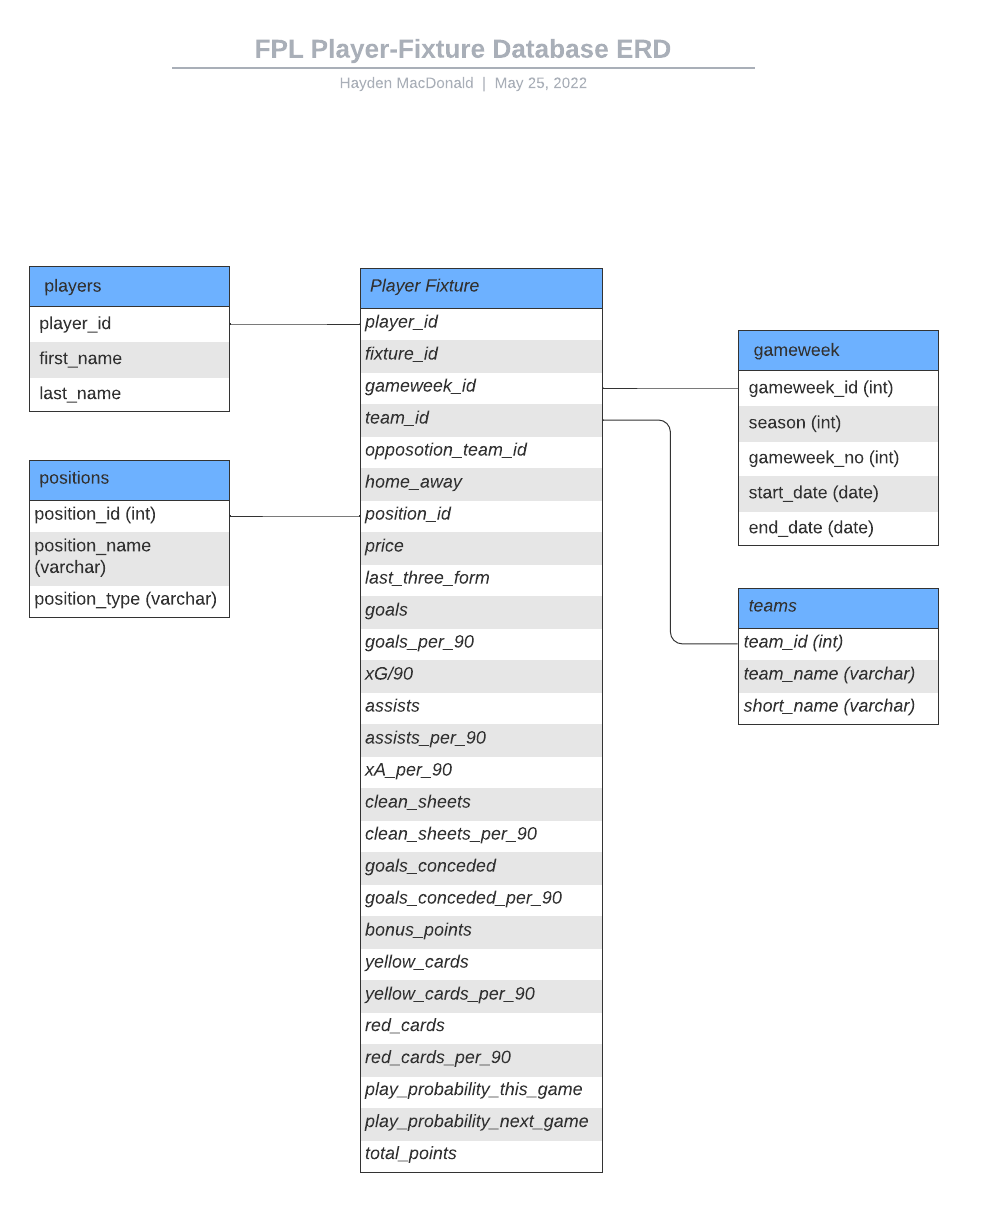
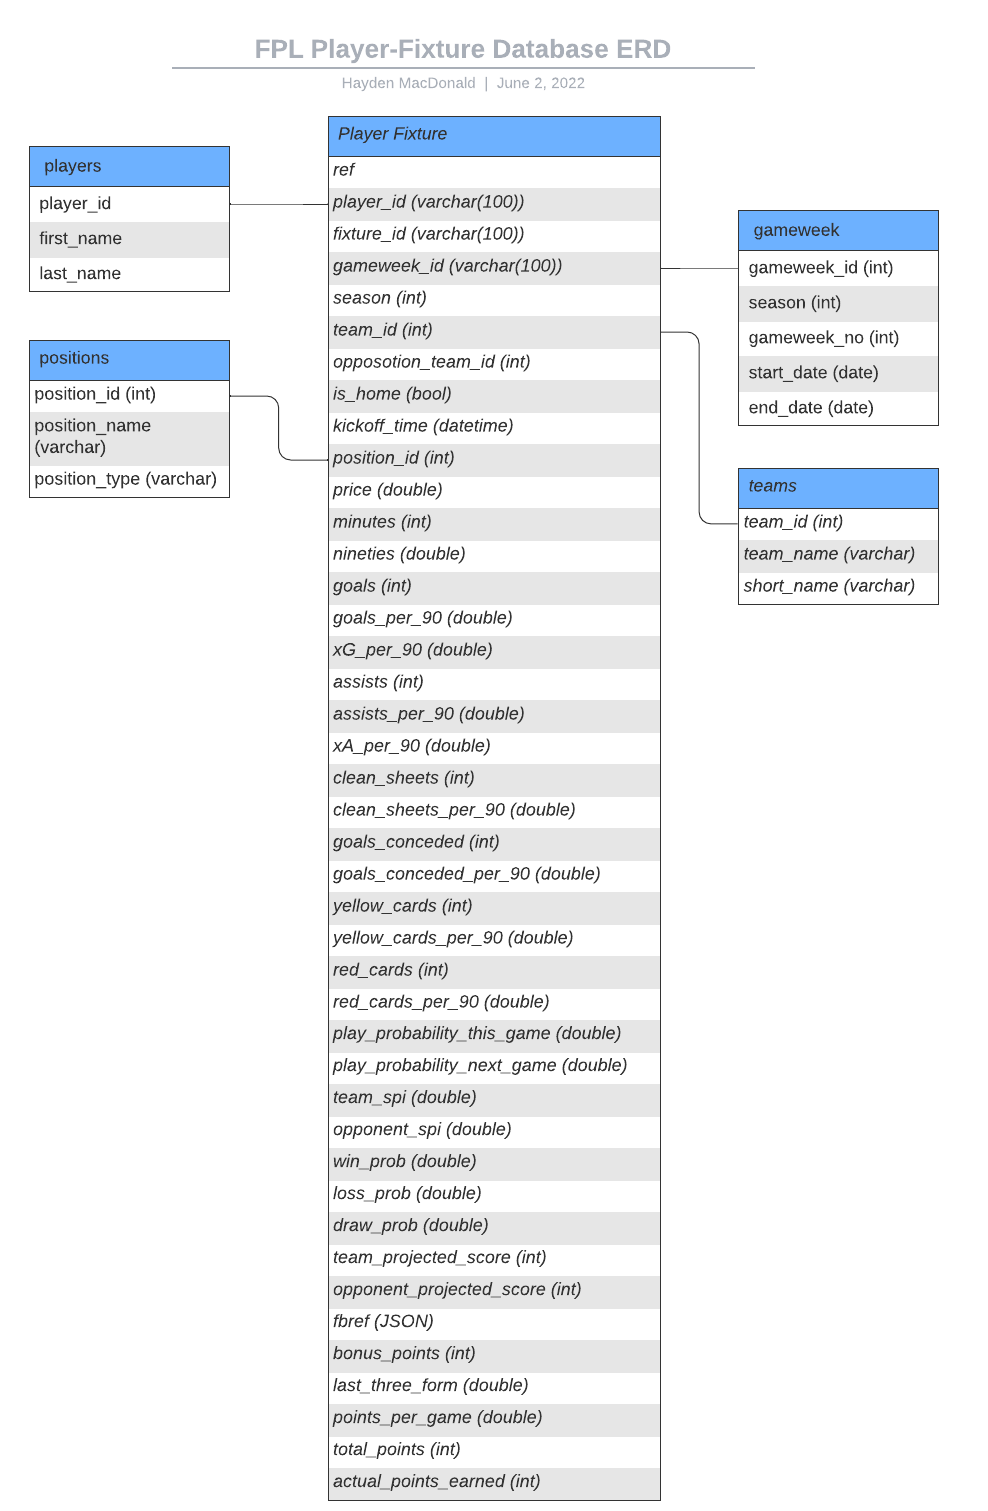
fix: testing connections to planetscale

diff --git a/sql/sql_queries.py b/sql/sql_queries.py
@@ -10,7 +10,7 @@ gameweeks_table_drop = "DROP TABLE IF EXISTS gameweeks;"
 
 player_fixtures_table_create = ("""
 CREATE TABLE IF NOT EXISTS player_fixtures (
-    ref PRIMARY KEY NOT NULL AUTO_INCREMENT,
+    ref INT NOT NULL AUTO_INCREMENT PRIMARY KEY,
     player_id VARCHAR(100),
     fixture_id VARCHAR(100),
     gameweek_id VARCHAR(100),
@@ -21,9 +21,8 @@ CREATE TABLE IF NOT EXISTS player_fixtures (
     kickoff_time datetime,
     position_id INT,
     price DOUBLE(4,2),
-    last_three_form DOUBLE(4,2),
     minutes INT,
-    nineties DOUBLE(4,2)
+    nineties DOUBLE(4,2),
     goals INT,
     goals_per_90 DOUBLE(4,2),
     xG_per_90 DOUBLE(4,2),
@@ -40,9 +39,6 @@ CREATE TABLE IF NOT EXISTS player_fixtures (
     red_cards_p90 DOUBLE(4,2),
     play_probability_next_game DOUBLE(4,2),
     play_probability_this_game DOUBLE(4,2),
-    bonus_points INT,
-    points_per_game DOUBLE(4,2),
-    total_points BIGINT,
     team_spi DOUBLE(4,2),
     opponent_spi DOUBLE(4,2),
     win_prob DOUBLE(4,4),
@@ -51,13 +47,17 @@ CREATE TABLE IF NOT EXISTS player_fixtures (
     team_projected_score DOUBLE(4,2),
     opponent_projected_score DOUBLE(4,2),
     fbref JSON,
+    bonus_points INT,
+    last_three_form DOUBLE(4,2),
+    points_per_game DOUBLE(4,2),
+    total_points INT,
     actual_points_earned INT
 );
 """)
 
 players_table_create = ("""
 CREATE TABLE IF NOT EXISTS players (
-    player_id VARCHAR(100) PRIMARY KEY NOT NULL,
+    player_id VARCHAR(100) NOT NULL PRIMARY KEY,
     first_name VARCHAR(150), 
     last_name VARCHAR(150)
 );
@@ -65,7 +65,7 @@ CREATE TABLE IF NOT EXISTS players (
 
 positions_table_create = ("""
 CREATE TABLE IF NOT EXISTS positions (
-    position_code INT PRIMARY KEY NOT NULL, 
+    position_id INT NOT NULL PRIMARY KEY, 
     position_name VARCHAR(100) NOT NULL,
     position_type VARCHAR(100) NOT NULL
 );
@@ -73,7 +73,7 @@ CREATE TABLE IF NOT EXISTS positions (
 
 teams_table_create = ("""
 CREATE TABLE IF NOT EXISTS teams (
-    team_id INT PRIMARY KEY NOT NULL, 
+    team_id INT NOT NULL PRIMARY KEY, 
     team_name VARCHAR(150) NOT NULL,
     short_name VARCHAR(100) NOT NULL
 );
@@ -81,38 +81,84 @@ CREATE TABLE IF NOT EXISTS teams (
 
 gameweeks_table_create = ("""
 CREATE TABLE IF NOT EXISTS gameweeks (
-    gameweek_id INT PRIMARY KEY NOT NULL AUTO_INCREMENT, 
+    gameweek_id INT NOT NULL AUTO_INCREMENT PRIMARY KEY, 
     season INT, 
     gameweek_no INT, 
     start_date datetime, 
-    end_date datetime,
+    end_date datetime
 );
 """)
 
 # INSERT RECORDS
 player_fixtures_table_insert = ("""
 INSERT INTO player_fixtures (
+    player_id,
+    fixture_id,
+    gameweek_id,
+    season,
+    team_id,
+    opponent_team_id,
+    is_home,
+    kickoff_time,
+    position_id,
+    price,
+    minutes,
+    nineties,
+    goals,
+    goals_per_90,
+    xG_per_90,
+    assists,
+    assists_per_90,
+    xA_per_90,
+    clean_sheets,
+    clean_sheets_per_90,
+    goals_conceded,
+    goals_conceded_per_90,
+    yellow_cards,
+    yellow_cards_p90,
+    red_cards,
+    red_cards_p90,
+    play_probability_next_game,
+    play_probability_this_game,
+    team_spi,
+    opponent_spi,
+    win_prob,
+    loss_prob,
+    draw_prob,
+    team_projected_score,
+    opponent_projected_score,
+    fbref,
+    bonus_points,
+    last_three_form,
+    points_per_game,
+    total_points,
+    actual_points_earned
 )
-VALUES ()
+VALUES (%s, %s, %s, %s, %s, %s, %s, %s, %s, %s, %s, %s, %s, %s, %s, %s, %s, %s, %s, %s, %s, %s, %s, %s, %s, %s, %s, %s, %s, %s, %s, %s, %s, %s, %s, %s, %s, %s, %s, %s, %s)
 ON CONFLICT (ref) 
 DO NOTHING;
 """)
 
 players_table_insert = ("""
-INSERT INTO players VALUES (%s, %s, %s) 
+INSERT INTO players(
+    player_id,
+    first_name, 
+    last_name
+)
+VALUES (%s, %s, %s) 
 ON CONFLICT (player_id) 
-DO UPDATE SET level=EXCLUDED.level;
+DO NOTHING;
 """)
 
 positions_table_insert = ("""
 INSERT INTO positions VALUES (%s, %s, %s)
-ON CONFLICT (position_code) 
+ON CONFLICT (position_id) 
 DO NOTHING;
 """)
 
 teams_table_insert = ("""
 INSERT INTO teams VALUES (%s, %s, %s)
-ON CONFLICT (team_code) 
+ON CONFLICT (team_id) 
 DO NOTHING;
 """)
 

diff --git a/main.py b/main.py
@@ -74,12 +74,18 @@ def main():
     # Collect and process data
     # process_weekly_data()
 
+    # Create Tables
+    create_tables(cur, conn)
+
     # Test
-    cur.execute("SELECT CURDATE();")
+    cur.execute("SHOW TABLES;")
 
     # Fetch one result
     row = cur.fetchone()
-    print(f"Current date is: {row[0]}")
+    print(row);
+
+    ## Drop tables
+    drop_tables(cur, conn)
 
     # Process and insert song and artist data
     # write_to_db(cur, conn, filepath='data/song_data', func=process_song_file)
